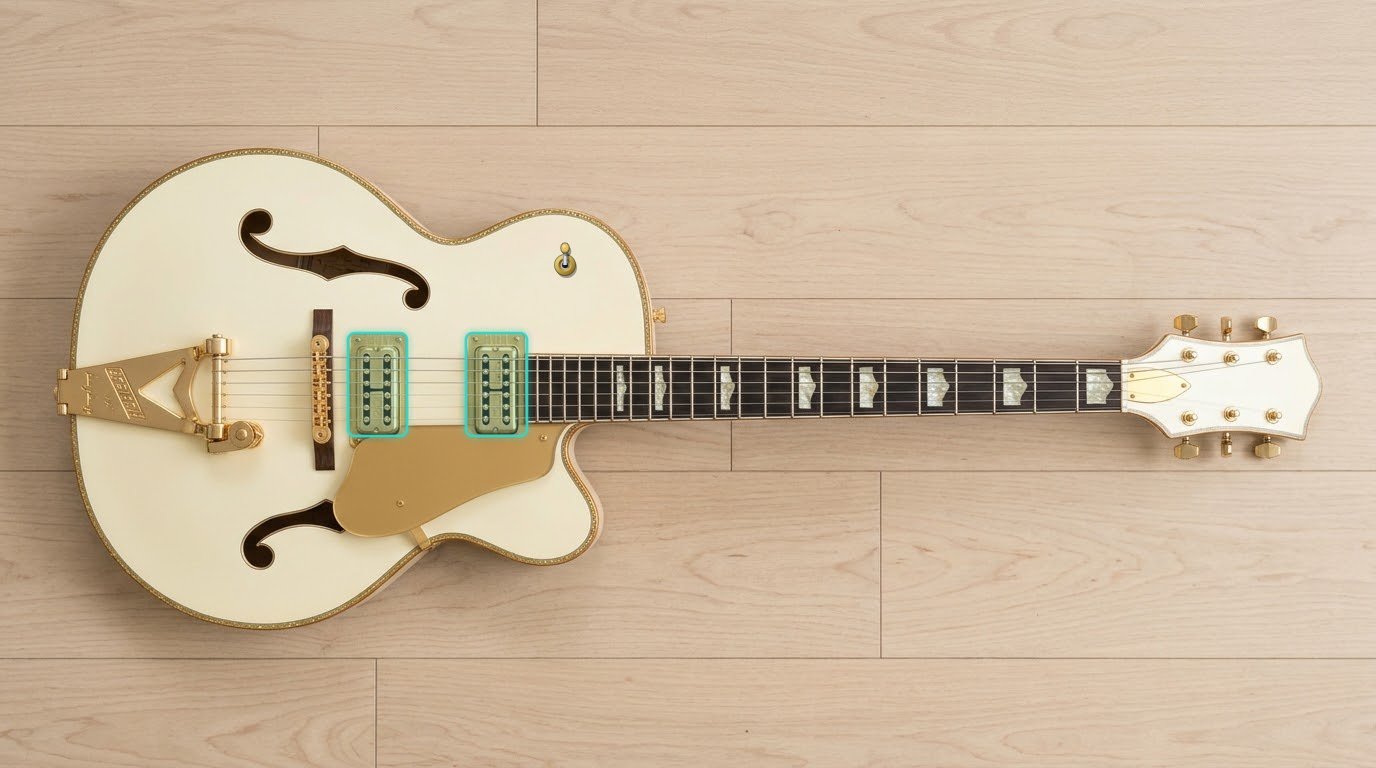
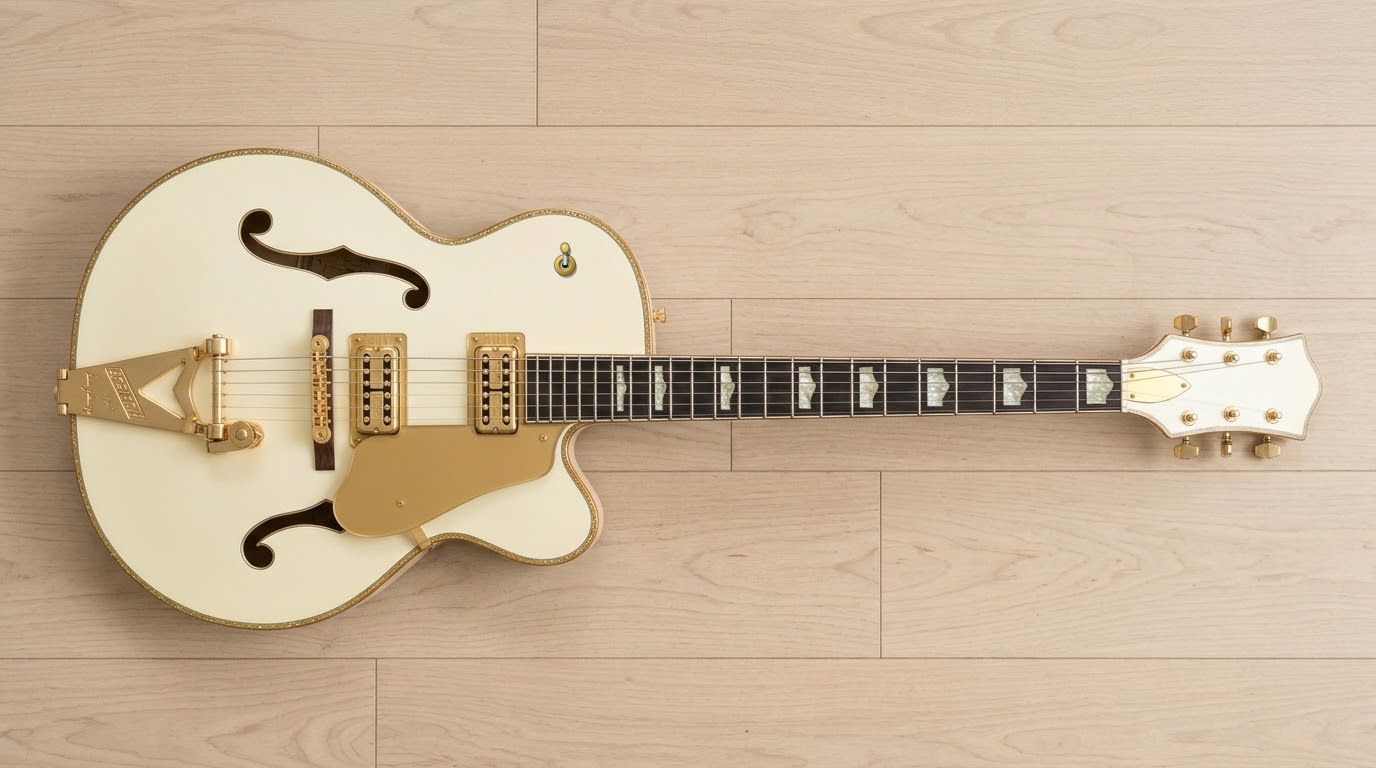
Remove pickup highlight and blue accent from the guitar view
Claude-Session: https://claude.ai/code/session_01HQLEn6sNaWi74h2uXV5Vg7

Changed region(s): [[0.25, 0.4062, 0.4062, 0.5938]]

diff --git a/Source/ui/GuitarView.cpp b/Source/ui/GuitarView.cpp
@@ -18,7 +18,7 @@ void GuitarView::setGuitar (int index)
     const auto& entry = FourRealAudioProcessor::library().at (index);
     model = entry.guitar;
     scene = &sceneFor (entry.code());
-    accent = juce::Colour (0xff000000u | model->accentRgb);
+    accent = juce::Colours::white;
     hover = drag = {};
     shownSlot = slotOfPosition (selectorPosition());
     previousPosition = -1;
@@ -197,9 +197,6 @@ void GuitarView::paint (juce::Graphics& g)
 
     juce::Graphics::ScopedSaveState state (g);
     g.addTransform (juce::AffineTransform::scale (scale).translated (offset));
-    for (const auto& pk : scene->pickups)
-        if (hover.hit == Hit::Pickup && scene->pickups[static_cast<size_t> (hover.index)].pickup == pk.pickup)
-            paintPickup (g, pk, false, true, accent);
 
     std::vector<bool> available;
     for (int s = 0; s < scene->selector.numSlots(); ++s)

diff --git a/tools/render_art.cpp b/tools/render_art.cpp
@@ -67,7 +67,7 @@ int main (int argc, char** argv)
             juce::Graphics g (img);
             g.drawImageAt (photo, 0, 0);
             for (const auto& pk : scene.pickups)
-                paintPickup (g, pk, (model.positions[p].pickupMask >> pk.pickup) & 1u, false, juce::Colour (0xff35d6c8));
+                (void) pk; // no highlight on the pickups: the selector lever shows the position
             paintSelector (g, scene.selector, static_cast<float> (slot), {}, false, juce::Colours::white);
             save (img, outDir.getChildFile (juce::String (code) + "_pos" + juce::String (static_cast<int> (p)) + ".jpg"), true);
         }
